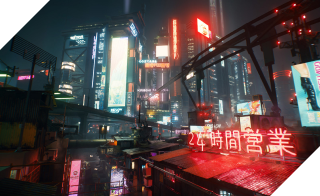
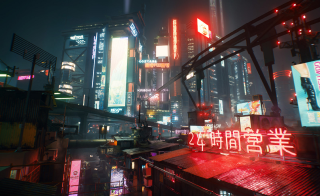
Увеличил разрешение картинок

Changed region(s): [[0.8438, 0.7347, 1.0, 1.0], [0.0, 0.0, 0.1562, 0.2449]]

diff --git a/index.html b/index.html
@@ -289,10 +289,7 @@
 		</form>
 	</section>
 	<section class="ad">
-		<picture>
-			<source srcset="img/ad1/picture-mob.png" media="(max-width: 480px)">
-			<img src="img/ad1/picture-desk.png" alt="monitor" class="ad__monitor">
-		</picture>
+		<img src="img/ad1/monitor.png" alt="monitor" class="ad__monitor">
 		<div class="ad__logos">
 			<div class="hp-logo">
 				<svg xmlns="http://www.w3.org/2000/svg" viewBox="0 0 44 44" fill="none">
